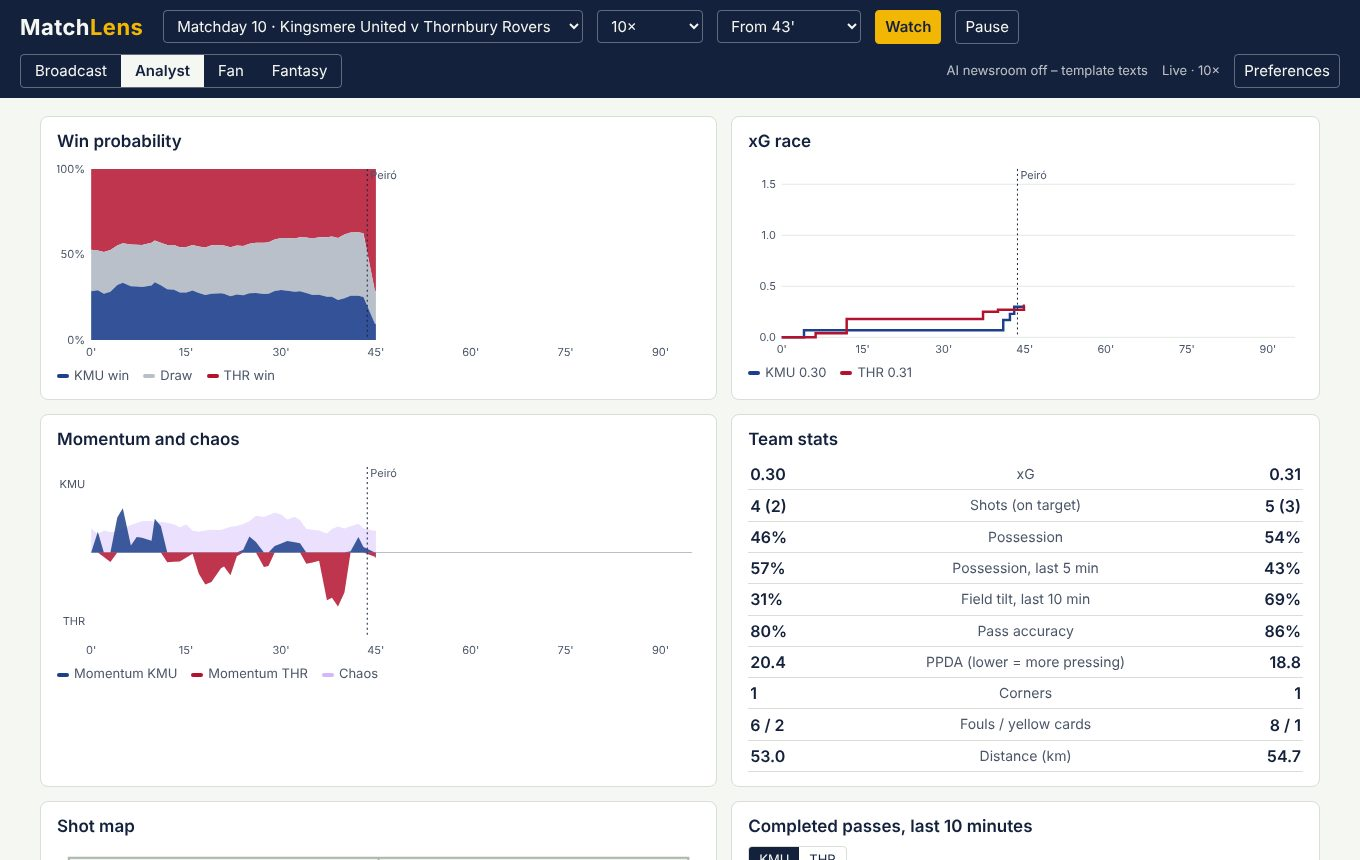
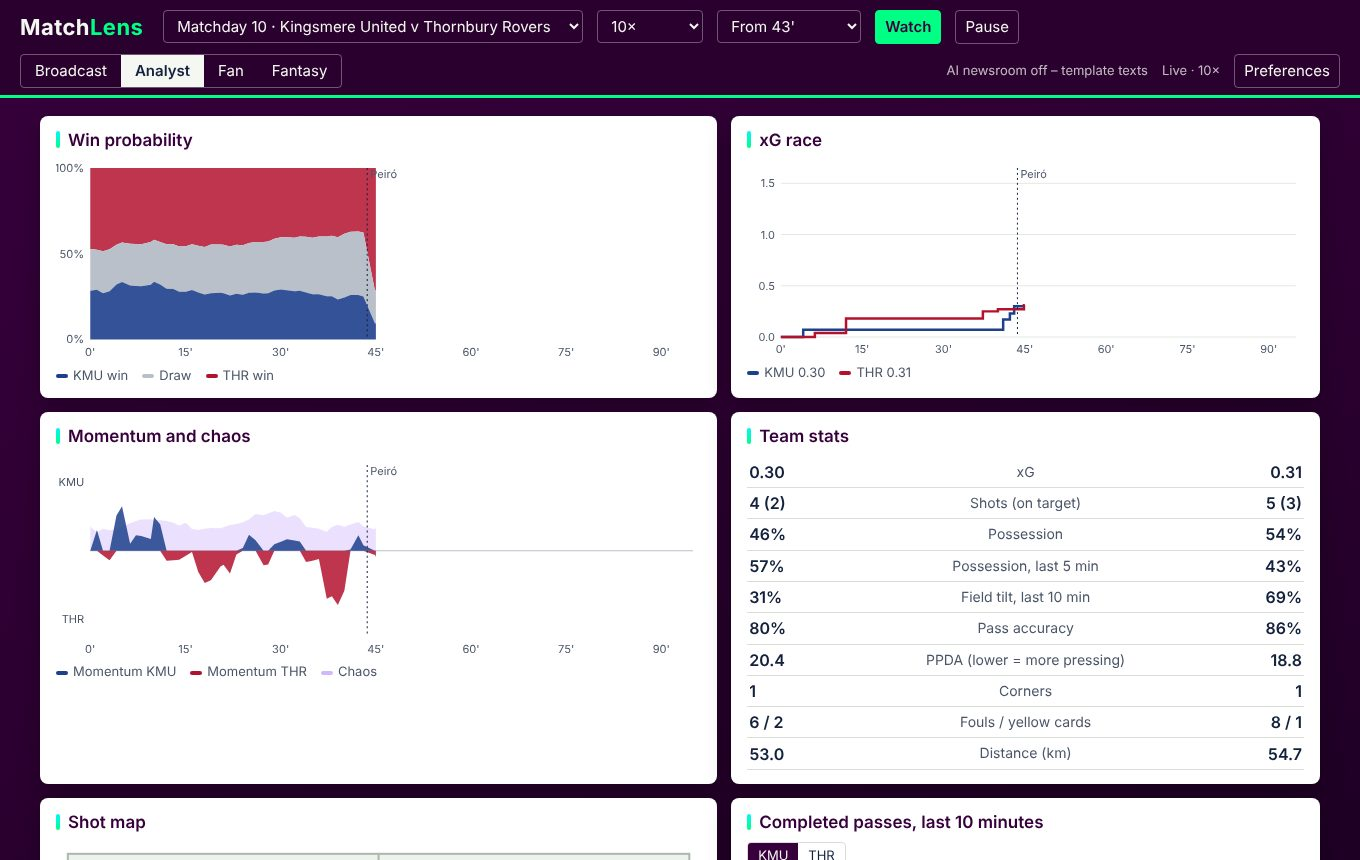
README: screenshots in the new theme, front page as hero image
Claude-Session: https://claude.ai/code/session_01129owQr6CbGPGmbwMdqT8v

Changed region(s): [[0.0, 0.0, 1.0, 1.0], [0.0618, 0.6047, 0.2779, 0.6651], [0.5868, 0.3628, 0.7412, 0.393]]

diff --git a/README.md b/README.md
@@ -6,7 +6,7 @@
 
 **Live demo:** `<your Azure Container Apps URL>` · **Video:** `<link>` · **Run it locally in 2 minutes:** [Quick start](#quick-start)
 
-![Broadcast view](docs/screens/broadcast.jpg)
+![MatchLens front page](docs/screens/home.jpg)
 
 ## What it does: ingest → interpret → explain → render → personalise
 
